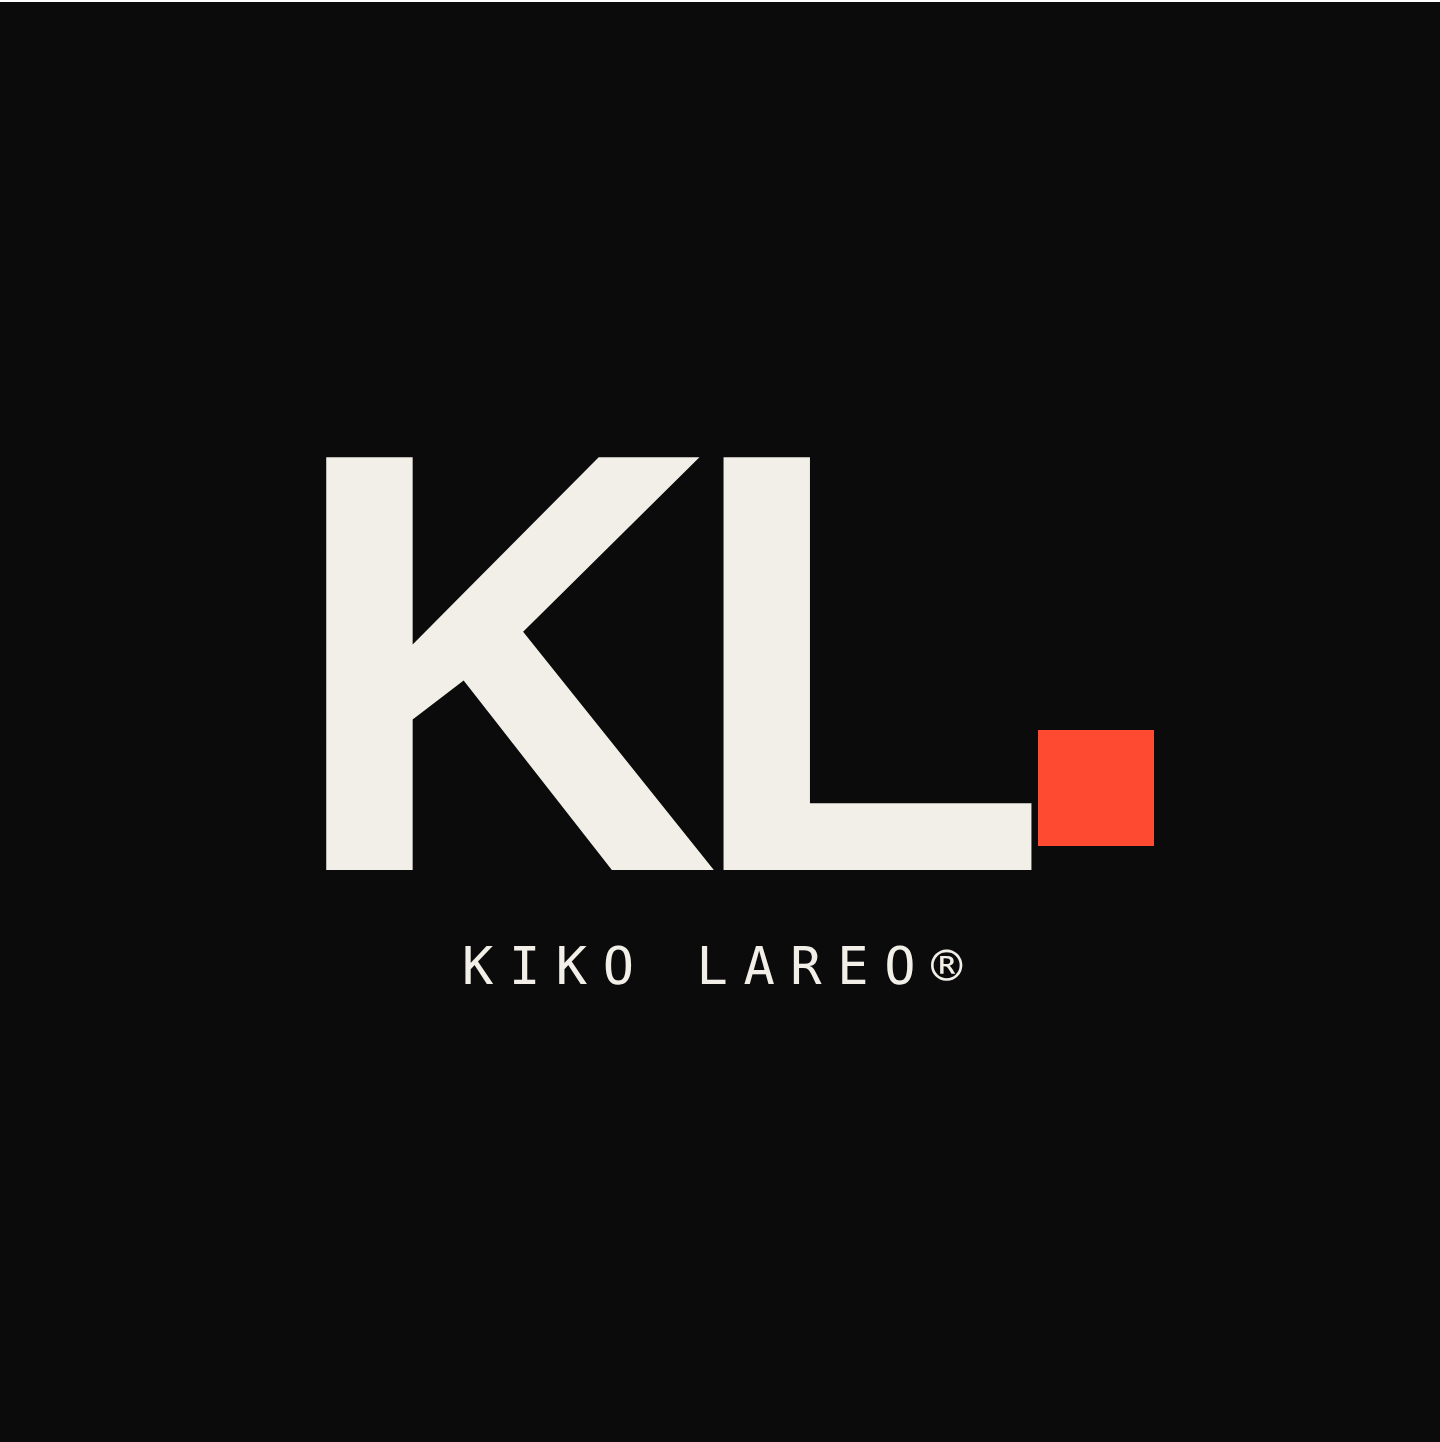
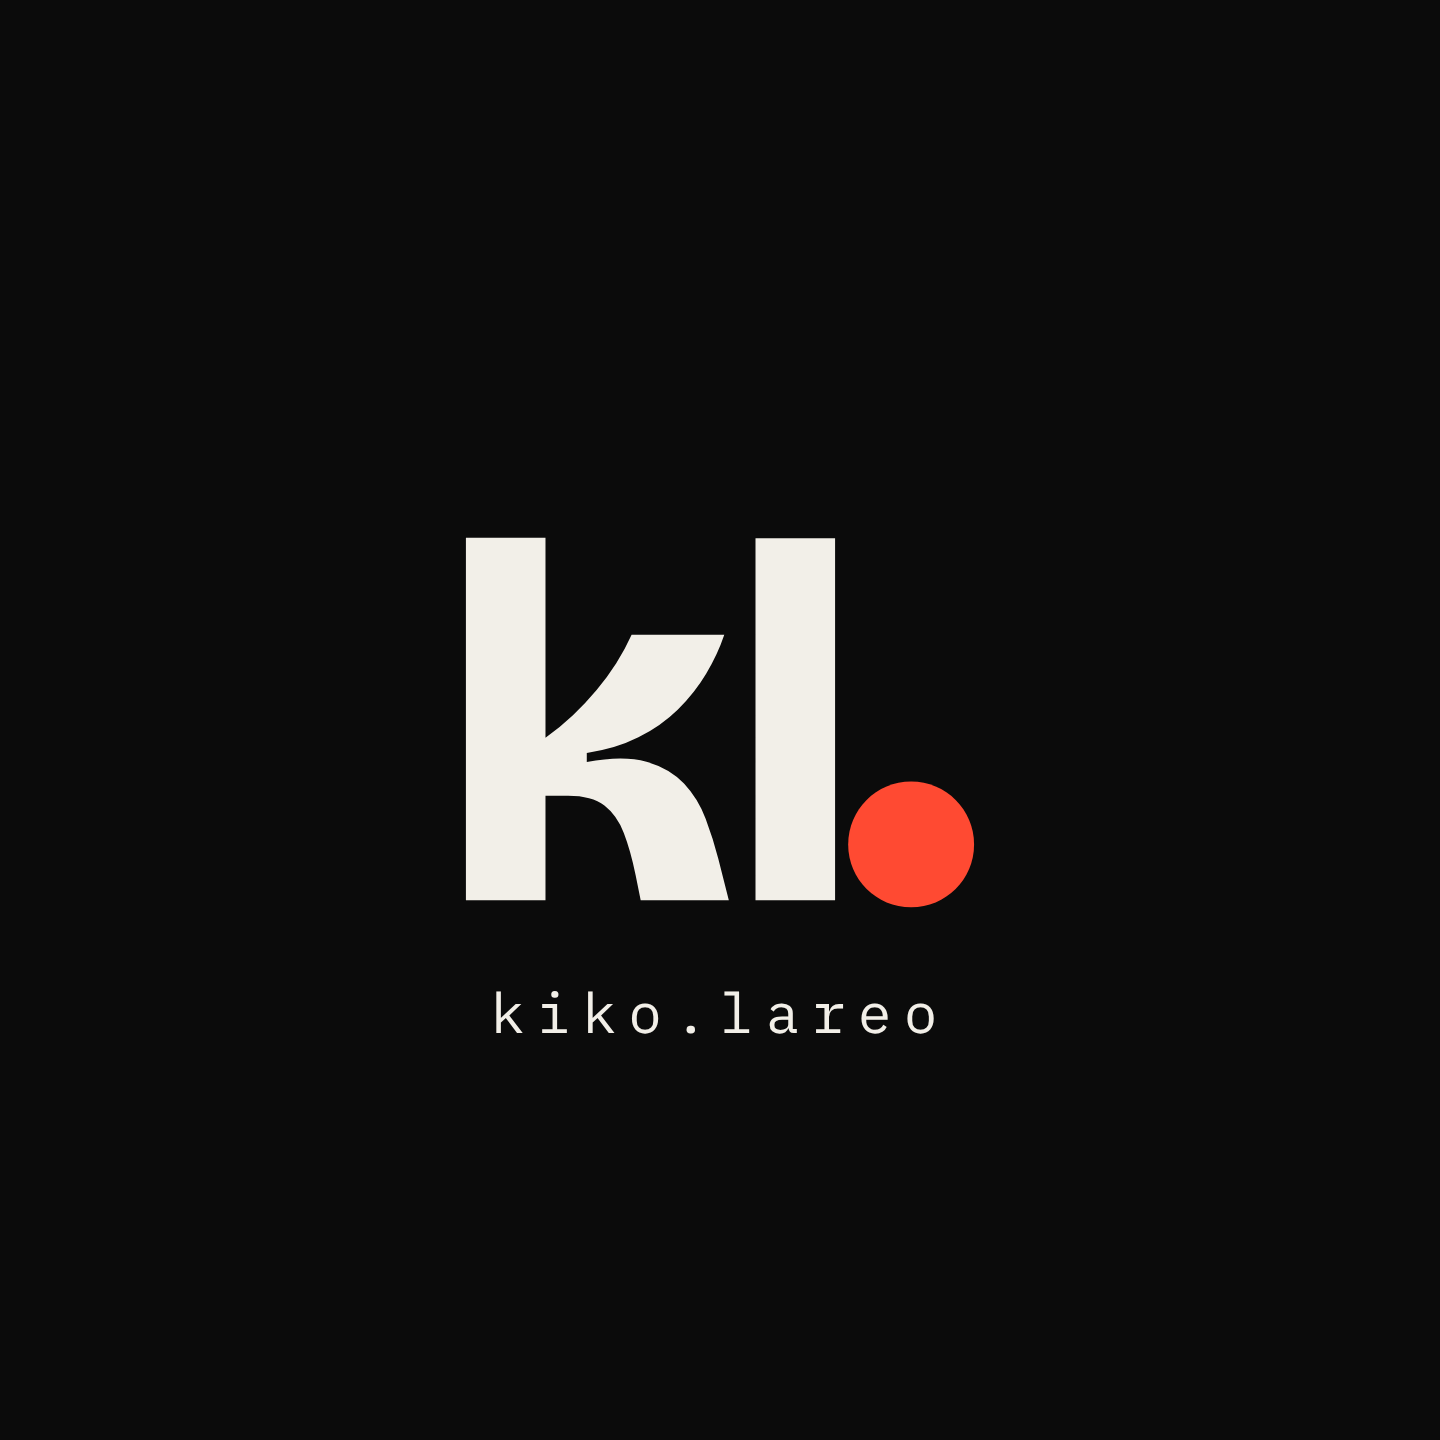
Identidad v3.1: la firma pasa a kiko.lareo, en minusculas y en vectores
El dueno recibio una propuesta de identidad (boceto en validacion) y dijo que
todo era una idea y que decidiera yo. Se adopta lo que encaja con la web y se
deja lo demas (ver CLAUDE.md para el detalle y el porque).

Firma: el PDF solo traia el logo como PNG, asi que se dibuja en vectores con
los contornos de Bricolage 800, la tipografia de la propia web: minusculas, un
solo color, punto grande y redondo como sena. Un generador (web/scripts/marca)
produce el componente de la cabecera y todo el paquete de marca; otro script
saca los PNG con Chromium.

Web: la cabecera usa la firma en lugar de texto (toma el color de la pagina,
asi que cambia sola con el tono oscuro) y en las subpaginas lleva la flecha de
volver. El titular de la portada pasa a "kiko. / lareo" en minusculas, con la
foto dentro de las letras como antes; comprobadas las tres formas de portada
que ofrece el panel.

Marca (public/marca): firma limpia y expresiva (el mismo dibujo con borde
rugoso y grano suelto, para portadas) en negro y crema, monograma kl. con
punto rojo redondo, avatares, favicon y apple-touch-icon.

Se corrige un fallo mio de la semana pasada: los avatares tambien llevaban
"KIKO LAREO®" y dije que no. Al rehacerlos desaparece. El (c) de la lamina
tampoco esta: no era intencionado.

No se adoptan las tipografias de la lamina (licencias por validar, mas
descargas) ni el terracota (5,9:1 sobre papel pero 2,9:1 sobre negro).

Arreglo aparte: en movil /deportes se desbordaba a 512 px por el texto
[…]

Changed region(s): [[0.2188, 0.3125, 0.8125, 0.7188], [0.3125, 0.6562, 0.4688, 0.7188]]

diff --git a/web/src/styles/global.css b/web/src/styles/global.css
@@ -181,10 +181,18 @@ a:hover { color: var(--rojo); }
 }
 
 .nav-logo {
+  display: inline-flex;
+  align-items: center;
+  gap: 12px;
   font-family: var(--display);
   font-weight: 800;
   font-size: 18px;
+  line-height: 1;
 }
+
+/* La firma kiko.lareo (Firma.astro): se dimensiona por el alto y toma el color del texto */
+.firma { display: block; height: 19px; width: auto; }
+.nav-flecha { font-family: var(--mono); font-weight: 500; font-size: 14px; }
 
 .nav-links {
   display: flex;
@@ -365,13 +373,13 @@ a:hover { color: var(--rojo); }
 
 .hero-title {
   display: flex;
-  justify-content: space-between;
+  justify-content: flex-start;      /* las líneas se leen seguidas: kiko.lareo */
   font-family: var(--display);
   font-weight: 800;
-  font-size: min(9.2vw, 124px);
-  line-height: 0.88;
-  letter-spacing: -0.055em;
-  text-transform: uppercase;
+  font-size: min(14vw, 190px);
+  line-height: 0.9;
+  letter-spacing: -0.04em;
+  text-transform: none;             /* la firma va en minúsculas (identidad v3.1) */
 }
 
 .hero-title sup {
@@ -409,8 +417,8 @@ a:hover { color: var(--rojo); }
 .hero-title.mask {
   flex-direction: column;
   align-items: flex-start;
-  gap: 0.04em;
-  font-size: min(11.5vw, 165px);
+  gap: 0.02em;
+  font-size: min(15.5vw, 215px);
   background-size: cover;
   background-position: center;
   /* El gris multiplica la foto dentro de las letras: gana contraste sobre
@@ -1761,7 +1769,8 @@ a:hover { color: var(--rojo); }
   display: flex;
   justify-content: space-between;
   align-items: baseline;
-  gap: 16px;
+  flex-wrap: wrap;          /* si el cliente es largo, baja a la línea de abajo en vez de desbordar la página */
+  gap: 6px 16px;
   padding: 14px 0 0;
 }
 
@@ -1775,7 +1784,7 @@ a:hover { color: var(--rojo); }
 .project-card .meta {
   font-family: var(--mono);
   font-size: 12px;
-  white-space: nowrap;
+  max-width: 100%;
 }
 
 /* Página de categoría: galería de fotos */
@@ -1894,7 +1903,7 @@ a:hover { color: var(--rojo); }
   .hero-split { grid-template-columns: minmax(0, 1fr); height: auto; }
   .hero-split .izq { padding: 20px 20px 32px; gap: 40px; }
   .hero-split .der { height: 58vh; min-height: 320px; }
-  .hero-title.mask { font-size: min(16vw, 96px); }
+  .hero-title.mask { font-size: min(27vw, 170px); }
 }
 
 /* Responsive del caso de estudio */

diff --git a/web/src/content.config.ts b/web/src/content.config.ts
@@ -153,7 +153,7 @@ const paginas = defineCollection({
     // 'letras': la foto se ve DENTRO de las letras gigantes (máscara)
     hero_estilo: z.enum(['fondo', 'tarjeta', 'letras']).default('fondo'),
     // Titular gigante del hero. El nombre no caduca; una frase, encasilla.
-    hero_titular: z.string().default('KIKO\nLAREO'),
+    hero_titular: z.string().default('kiko.\nlareo'),
     reel: z.object({
       titulo: z.string(),
       etiqueta: z.string(),

diff --git a/web/scripts/marca/generar.py b/web/scripts/marca/generar.py
@@ -1,0 +1,121 @@
+#!/usr/bin/env python3
+"""Genera la firma kiko.lareo y el monograma kl. como CONTORNOS vectoriales.
+
+Parte de Bricolage Grotesque 800 (la tipografía de la propia web), así que
+no hay ninguna fuente en el resultado: son solo trazados. Reglas (identidad
+v3.1, nov 2026): firma en minúsculas, un solo color, el punto como seña.
+
+Salida:
+  src/components/Firma.astro      firma en línea para la cabecera (currentColor)
+  public/marca/*.svg              firma y monograma sueltos (negro / crema)
+
+Uso (necesita fontTools + brotli, con el MISMO python que usa pip):
+  python3.13 -m pip install --target /tmp/pylib fonttools brotli
+  PYTHONPATH=/tmp/pylib python3.13 web/scripts/marca/generar.py
+Los PNG (transparentes, favicon, avatares) los saca `exportar.cjs` con Chromium:
+  PW=<carpeta con node_modules/playwright-core> node web/scripts/marca/exportar.cjs
+"""
+import sys, os, json
+from pathlib import Path
+
+sys.path.insert(0, os.environ.get('PYLIB', '/tmp/pylib'))
+from fontTools.ttLib import TTFont
+from fontTools.pens.svgPathPen import SVGPathPen
+from fontTools.pens.transformPen import TransformPen
+from fontTools.pens.boundsPen import BoundsPen
+
+RAIZ = Path(__file__).resolve().parents[2]            # web/
+FUENTE = RAIZ / 'public/fonts/bricolage-grotesque-800-latin.woff2'
+NEGRO, CREMA, ROJO = '#0B0B0B', '#F2EFE8', '#FF4A32'
+
+F = TTFont(str(FUENTE))
+CMAP, GSET = F.getBestCmap(), F.getGlyphSet()
+
+def tinta(ch):
+    bp = BoundsPen(GSET); GSET[CMAP[ord(ch)]].draw(bp); return bp.bounds   # xmin, ymin, xmax, ymax
+def avance(ch): return F['hmtx'][CMAP[ord(ch)]][0]
+def num(v): return ('%.1f' % v).rstrip('0').rstrip('.')
+
+def trazo(ch, x):
+    pen = SVGPathPen(GSET, ntos=num)
+    GSET[CMAP[ord(ch)]].draw(TransformPen(pen, (1, 0, 0, -1, x, 0)))   # eje Y hacia abajo, base en y=0
+    return pen.getCommands()
+
+def circulo(cx, cy, r):
+    k = 0.5522847498 * r
+    seg = [(cx+r, cy), (cx+r, cy+k, cx+k, cy+r, cx, cy+r), (cx-k, cy+r, cx-r, cy+k, cx-r, cy),
+           (cx-r, cy-k, cx-k, cy-r, cx, cy-r), (cx+k, cy-r, cx+r, cy-k, cx+r, cy)]
+    d = 'M' + ' '.join(num(v) for v in seg[0])
+    for s in seg[1:]: d += 'C' + ' '.join(num(v) for v in s)
+    return d + 'Z'
+
+class Dibujo:
+    """Una composición: letras + punto, con su caja de tinta."""
+    def __init__(self, bloques, track, punto, hueco):
+        self.punto = punto
+        partes, x = [], 0
+        def letras(txt):
+            nonlocal x
+            for ch in txt:
+                partes.append((ch, x)); x += avance(ch) + track
+        self.dpunto = None
+        xs, xe = [], []
+        for i, b in enumerate(bloques):
+            if i > 0:                       # el punto entre dos bloques, o al final
+                ch, xo = partes[-1]
+                izq = xo + tinta(ch)[2] + hueco
+                self.cx = izq + punto / 2
+                x = izq + punto + hueco - tinta(b[0])[0]
+                xs.append(izq); xe.append(izq + punto)
+            letras(b)
+        if len(bloques) == 1:               # monograma: el punto va detrás
+            ch, xo = partes[-1]
+            izq = xo + tinta(ch)[2] + hueco
+            self.cx = izq + punto / 2
+            xs.append(izq); xe.append(izq + punto)
+        r = punto / 2
+        self.dpunto = circulo(self.cx, -(r - 14), r)       # asienta en la base con el mismo rebase que las redondas
+        self.dletras = ''.join(trazo(c, xx) for c, xx in partes)
+        xs += [xx + tinta(c)[0] for c, xx in partes]; xe += [xx + tinta(c)[2] for c, xx in partes]
+        y0 = -max(tinta(c)[3] for c, _ in partes); y1 = -min(tinta(c)[1] for c, _ in partes)
+        self.caja = (min(xs), y0, max(xe) - min(xs), y1 - y0)
+
+    def viewbox(self, aire=0):
+        x, y, w, h = self.caja
+        return '%s %s %s %s' % (num(x-aire), num(y-aire), num(w+2*aire), num(h+2*aire))
+
+FIRMA = Dibujo(['kiko', 'lareo'], track=-26, punto=250, hueco=26)
+MONO = Dibujo(['kl'], track=-30, punto=250, hueco=26)
+
+def svg(dib, relleno, relleno_punto=None, aire=0, titulo='Kiko Lareo', extra=''):
+    rp = relleno_punto or relleno
+    return ('<svg xmlns="http://www.w3.org/2000/svg" viewBox="%s" role="img" aria-label="%s">'
+            '<title>%s</title>'
+            '<path fill="%s" d="%s"/><path fill="%s" d="%s"/></svg>\n') % (
+        dib.viewbox(aire), titulo, titulo, relleno, dib.dletras, rp, dib.dpunto)
+
+def main():
+    marca = RAIZ / 'public/marca'
+    # --- firma
+    (marca / 'wordmark.svg').write_text(svg(FIRMA, NEGRO, aire=FIRMA.punto), encoding='utf-8')
+    (marca / 'wordmark-crema.svg').write_text(svg(FIRMA, CREMA, aire=FIRMA.punto), encoding='utf-8')
+    # --- monograma: letras en el color de la firma, punto en rojo
+    (marca / 'monograma.svg').write_text(svg(MONO, NEGRO, ROJO, aire=MONO.punto), encoding='utf-8')
+    (marca / 'monograma-crema.svg').write_text(svg(MONO, CREMA, ROJO, aire=MONO.punto), encoding='utf-8')
+    # --- componente de la cabecera: currentColor, caja ajustada a la tinta (sin aire)
+    comp = RAIZ / 'src/components/Firma.astro'
+    comp.write_text('''---
+// La firma kiko.lareo como contornos vectoriales (identidad v3.1, nov 2026).
+// GENERADO por web/scripts/marca/generar.py a partir de Bricolage Grotesque 800:
+// no lo edites a mano, vuelve a generarlo. Toma el color del texto que la rodea
+// (currentColor), así que cambia solo con el tono claro / oscuro.
+interface Props { class?: string }
+const { class: clase = '' } = Astro.props;
+---
+<svg class={`firma ${clase}`.trim()} viewBox="%s" role="img" aria-label="Kiko Lareo" fill="currentColor" focusable="false"><path d="%s"/><path d="%s"/></svg>
+''' % (FIRMA.viewbox(), FIRMA.dletras, FIRMA.dpunto), encoding='utf-8')
+    print('firma  caja', [round(v) for v in FIRMA.caja], ' proporción %.2f:1' % (FIRMA.caja[2]/FIRMA.caja[3]))
+    print('mono   caja', [round(v) for v in MONO.caja], ' proporción %.2f:1' % (MONO.caja[2]/MONO.caja[3]))
+
+if __name__ == '__main__':
+    main()

diff --git a/CLAUDE.md b/CLAUDE.md
@@ -38,13 +38,13 @@ npm run fotos -- <categoria> <carpeta> [fecha]   # volcado por lotes (scripts/su
 - `web/src/pages/gracias.astro` — confirmación del formulario (noindex, fuera del sitemap).
 - `web/src/pages/404.astro`, `web/src/pages/robots.txt.ts`
 - `web/src/layouts/Base.astro` — `<head>` (SEO, OG, favicon, JSON-LD), redirect de tokens de Netlify Identity a `/admin`, script de las tarjetas flip, enlace "saltar al contenido".
-- `web/src/components/` — `TiraCategoria.astro` (carrusel horizontal con relieve 3D de cada categoría en la portada), `Nav.astro` (logo + botón MENÚ + menú a pantalla completa), `Slot.astro` (hueco imagen/vídeo/placeholder), `FlipCard.astro` (tarjeta HISTORIA ↻), `Composicion.astro` (maqueta impresa, la de por defecto), `CarruselVertical.astro` (pila con relieve) y `MosaicoMarca.astro` (rejilla densa a sangre); cuál se usa lo decide `galeria_estilo` del proyecto.
+- `web/src/components/` — `Firma.astro` (la firma `kiko.lareo` en vectores, **GENERADA**: no se edita a mano), `TiraCategoria.astro` (carrusel horizontal con relieve 3D de cada categoría en la portada), `Nav.astro` (logo + botón MENÚ + menú a pantalla completa), `Slot.astro` (hueco imagen/vídeo/placeholder), `FlipCard.astro` (tarjeta HISTORIA ↻), `Composicion.astro` (maqueta impresa, la de por defecto), `CarruselVertical.astro` (pila con relieve) y `MosaicoMarca.astro` (rejilla densa a sangre); cuál se usa lo decide `galeria_estilo` del proyecto.
 - `web/src/lib/categorias.ts` — las **5 categorías fijas** (id, orden, layout portada, SEO por categoría). Añadir/renombrar categoría se hace AQUÍ + en el enum de `content.config.ts` + en los dos selectores de `config.yml`.
 - `web/src/lib/archivo.ts` — `codigoArchivo()` (genera `KL—001` por orden cronológico) y `ACENTOS` (5 colores de proyecto con contraste comprobado).
 - `web/src/lib/seo.ts` — JSON-LD: LocalBusiness (geo A Coruña), Person, migas.
 - `web/src/styles/global.css` — **todos los estilos** (un solo archivo). Empieza con los tokens `:root`.
 - `web/public/admin/config.yml` — configuración del panel Decap. **Rutas relativas a la RAÍZ del repo → llevan prefijo `web/`.** Previews desactivadas.
-- `web/public/marca/` — paquete de logo (wordmark + monograma KL., PNG y SVG, negro/crema, avatares). Favicon en `web/public/favicon.png` + `apple-touch-icon.png`.
+- `web/public/marca/` — paquete de logo (identidad v3.1): firma `wordmark*.svg` y `wm-*.png` (limpia y expresiva, negro/crema), monograma `kl.` (`monograma*.svg`, `mono-*.png`) y avatares. Favicon y `apple-touch-icon.png` en `web/public/`. **Todo sale de `web/scripts/marca/`** (`generar.py` dibuja los contornos y `exportar.cjs` saca los PNG con Chromium; las instrucciones van en su cabecera). Si cambia el dibujo, se regenera todo, no se toca a mano.
 - `site/`, `project/`, `chats/` — referencia del diseño original. **No tocar.**
 
 ## Modelo de contenido (colecciones; esquema en `content.config.ts`, panel en `config.yml`)
@@ -61,8 +61,10 @@ npm run fotos -- <categoria> <carpeta> [fecha]   # volcado por lotes (scripts/su
 
 - Colores: `--kl-black #0B0B0B` (negro carbón), `--kl-paper #F2EFE8` (blanco papel), `--kl-red #FF4A32` (rojo flash, SOLO acento), `--kl-gray #9B9B95`. Alias: `--negro --crema --rojo --gris`.
 - Tipografías: `--display` Bricolage Grotesque (400/600/800, titulares y cuerpo), `--mono` IBM Plex Mono (400/500/600, metadatos/códigos). No añadir una tercera.
-- Titulares en mayúsculas, letter-spacing negativo. Rojo como señal (números, líneas, estado activo), nunca como fondo dominante.
+- Titulares en mayúsculas, letter-spacing negativo. **Excepción: la firma y el titular del hero van en MINÚSCULAS (`kiko.lareo`).** Rojo como señal (números, líneas, estado activo), nunca como fondo dominante.
 - **Escala tras la pasada del 04/11/2026 ("el silencio con tu color"):** los titulares bajaron de tamaño y de peso (800 → 600). El manual de marca lo pedía en su pág. 13: "no convertir siempre el 800 condensado en protagonista". Quedan **dos** momentos altos a propósito, y solo dos: el nombre del hero de la portada (la puerta de entrada) y `.cierre-cta` (el momento de conversión). Si añades un tercero, quita uno.
+- **Identidad v3.1 (26/11/2026): la firma es `kiko.lareo`, en minúsculas, con el punto como seña.** El dueño recibió una propuesta de identidad («Brand System 3.1», boceto en validación) y dijo: «todo esto es una idea, manda lo que tú digas, coge lo correcto y lo hacemos». **Se adoptó:** firma en minúsculas de un solo color; tres usos (limpia = web, presupuestos y créditos; expresiva = el mismo dibujo con desgaste, solo portadas y piezas que pidan energía; marca de agua = la limpia, pequeña); monograma `kl.` con punto REDONDO rojo (antes `KL.` con cuadrado). **No se adoptó:** las tipografías de la lámina (Kanio, Airone, Nuega, pincel; el propio PDF dice «licencias por validar» y son descargas extra: la web sigue con Bricolage + IBM Plex Mono) ni el terracota (`#983F2E`: 5,9:1 sobre papel pero 2,9:1 sobre negro; la paleta sigue siendo la del manual). **El © de la lámina no era intencionado y no está.** El logo del PDF es un PNG, no hay vectores: la firma se dibujó con los contornos de Bricolage 800. En el texto corrido el nombre sigue siendo «Kiko Lareo»; la minúscula es solo el logo y el hero.
+  - Conocido y sin resolver: el rojo `#FF4A32` da 2,9:1 sobre papel en texto pequeño (números, «VER PROYECTO →», mono de 11 px), por debajo del 4,5:1. No se ha tocado.
 - **Tono oscuro (opcional, 09/11/2026).** Botón ◐ en la cabecera; `data-tema="oscuro"` en `<html>`, guardado en `localStorage` (`kl-tono`) y aplicado por un script en el `<head>` ANTES de pintar (si no, fogonazo de blanco). **Por defecto claro y NO sigue el ajuste del sistema**: la identidad es el papel. Cuatro tokens cambian con el tono: `--fondo`, `--tinta`, `--bloque` (secciones oscuras) y `--slot-bg`. `--crema` y `--negro` NO cambian nunca: son la paleta fija (papel de las notas del tablero, texto sobre fotos). **Regla al escribir CSS nuevo: fondo/texto/líneas de la página → `--fondo`/`--tinta`; bloque oscuro → `--bloque`; texto encima de una foto → `--crema`.** Los colores de proyecto tienen versión clara en `ACENTOS_OSCURO` (`lib/archivo.ts`): los originales daban 2,8–3,7:1 sobre negro.
 - Toda animación respeta `prefers-reduced-motion` y no bloquea la carga. Ante la duda, gana la fotografía.
 

diff --git a/ROADMAP.md b/ROADMAP.md
@@ -17,9 +17,9 @@ publican al fusionar a `main` (Netlify despliega automáticamente).
 - **Tipografías alojadas en la web** (jul 2026): Bricolage + IBM Plex Mono
   servidas desde /fonts/ (woff2, OFL); fuera Google Fonts. Sin peticiones
   a Google, más rápido y sin enviar IP del visitante fuera de la UE.
-- **Logo y favicon** (jul 2026): wordmark KIKO LAREO + monograma KL. (con
+- **Identidad v3.1** (26/11/2026): la firma pasa a `kiko.lareo` en minúsculas y vectores, monograma `kl.` con punto rojo redondo, generador en `web/scripts/marca/`; ver CLAUDE.md. (Antes —**Logo y favicon**, jul 2026—: wordmark KIKO LAREO + monograma KL. (con
   cuadrado rojo) en /public/marca/ (PNG negro/crema + SVG + avatares);
-  favicon y apple-touch-icon montados.
+  favicon y apple-touch-icon montados.)
 - **Índice del proyecto**: CLAUDE.md en la raíz (se carga solo en cada
   sesión) + este ROADMAP.md.
 - **Extras post-Fase 4** (17/07/2026): categoría nueva **Naturaleza** (05,
